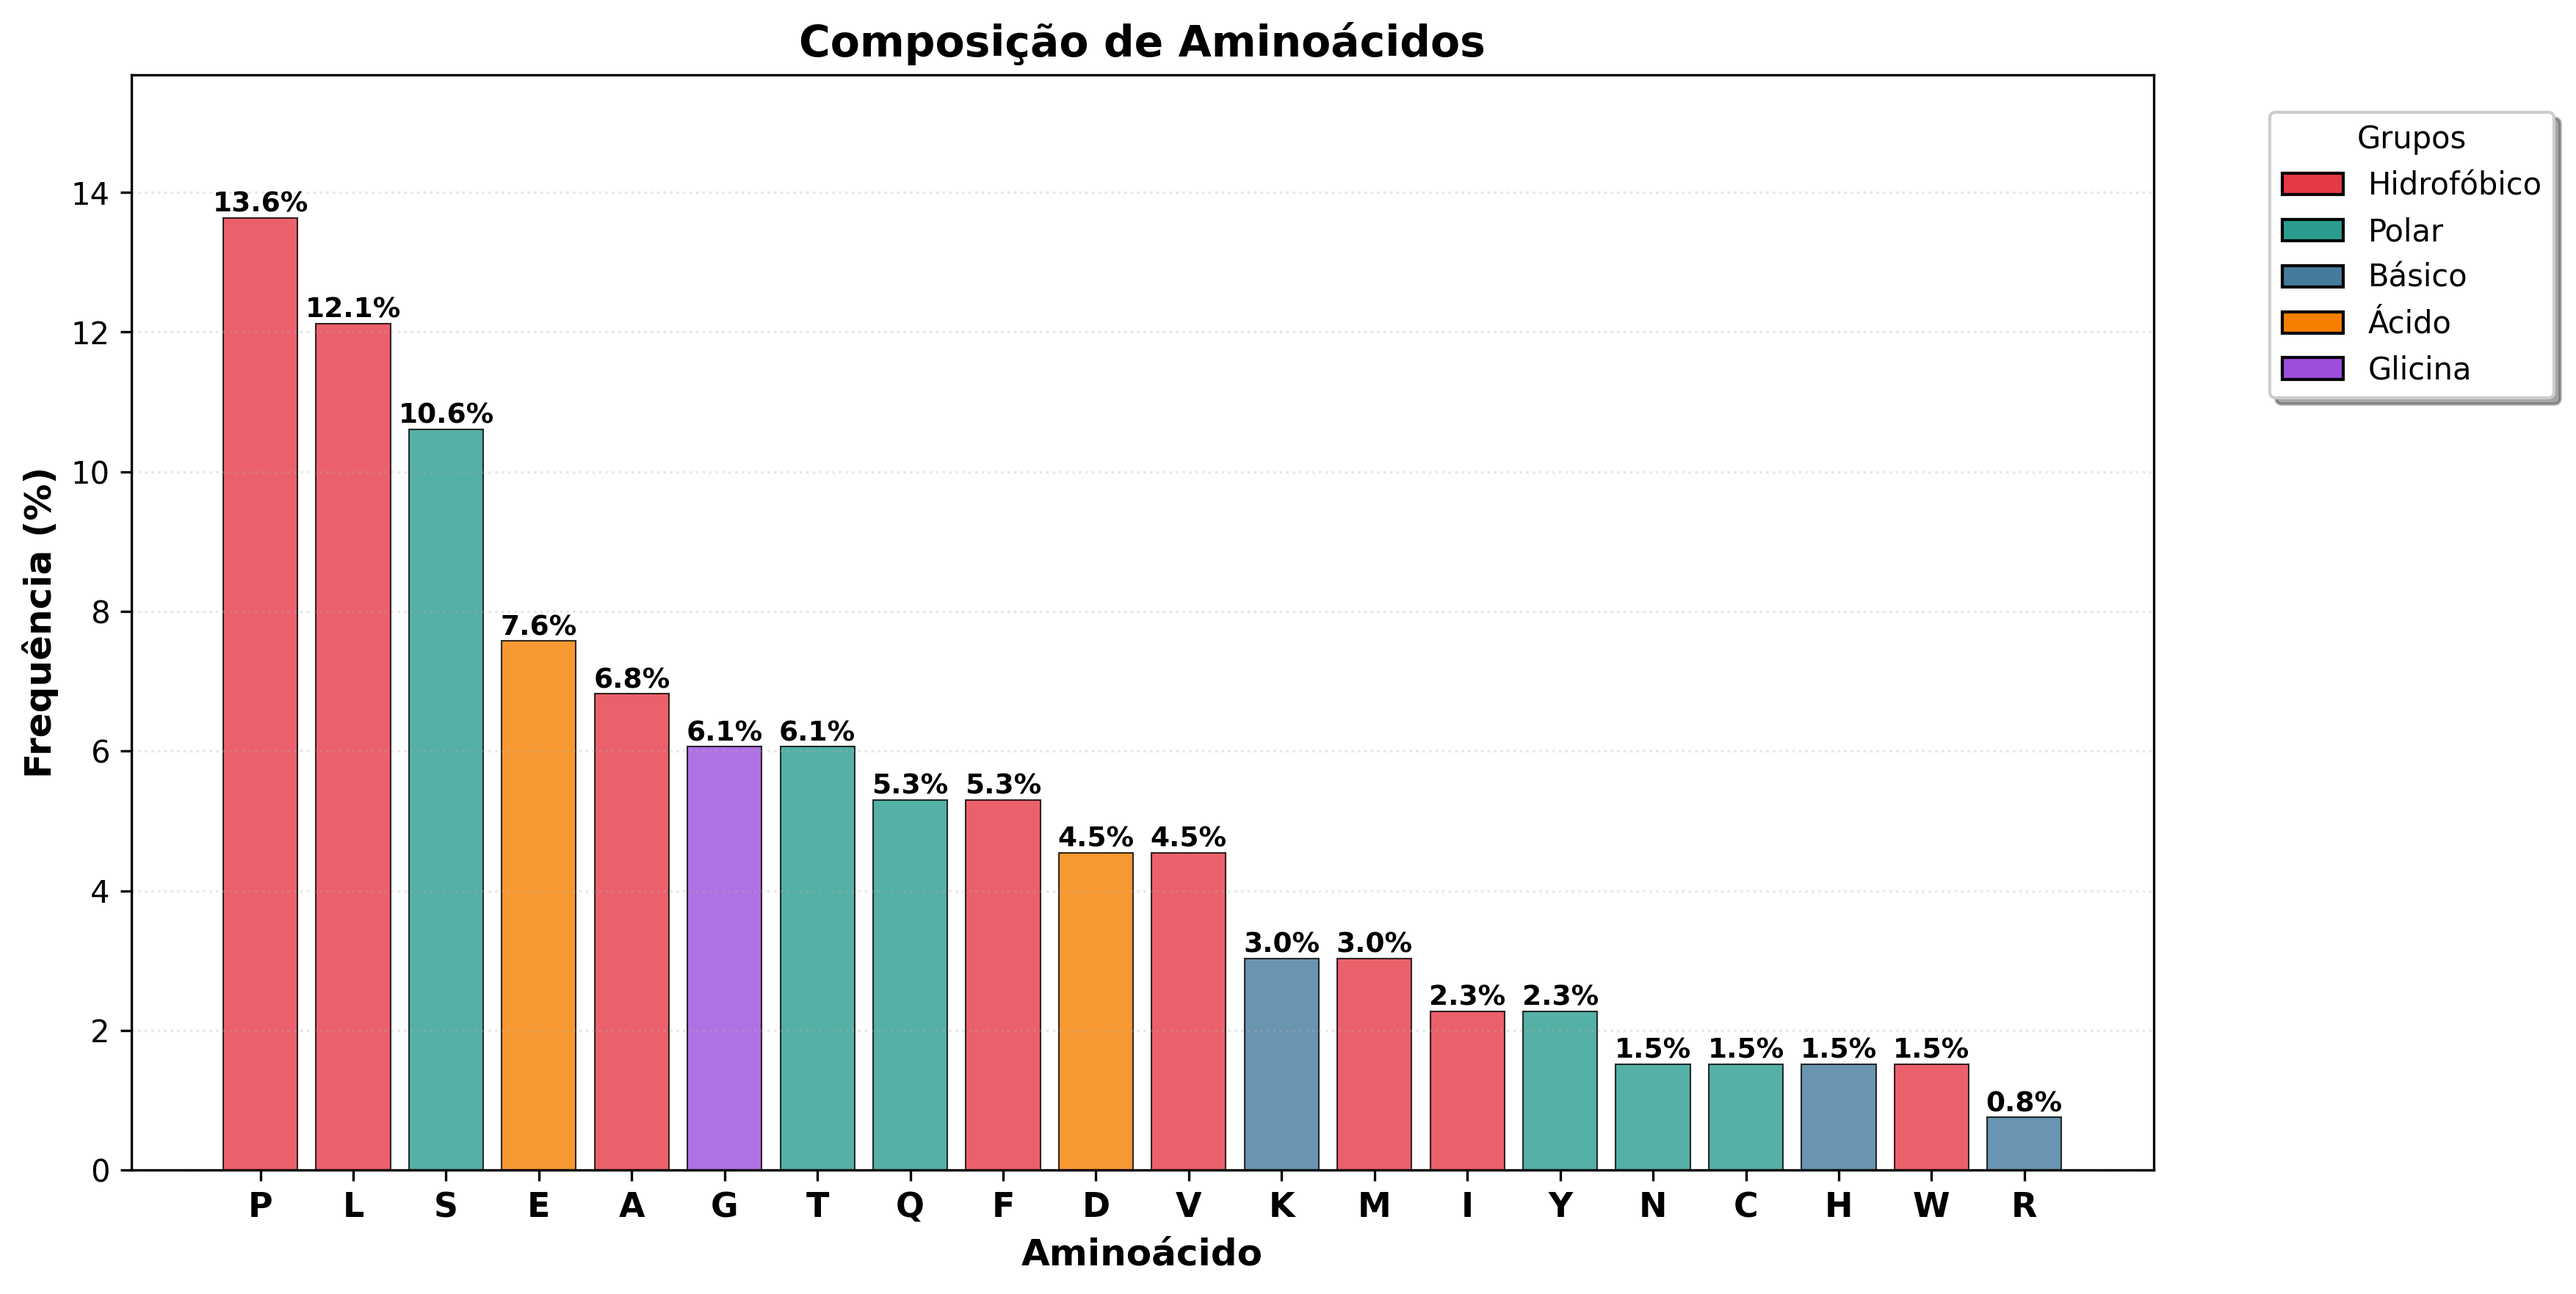
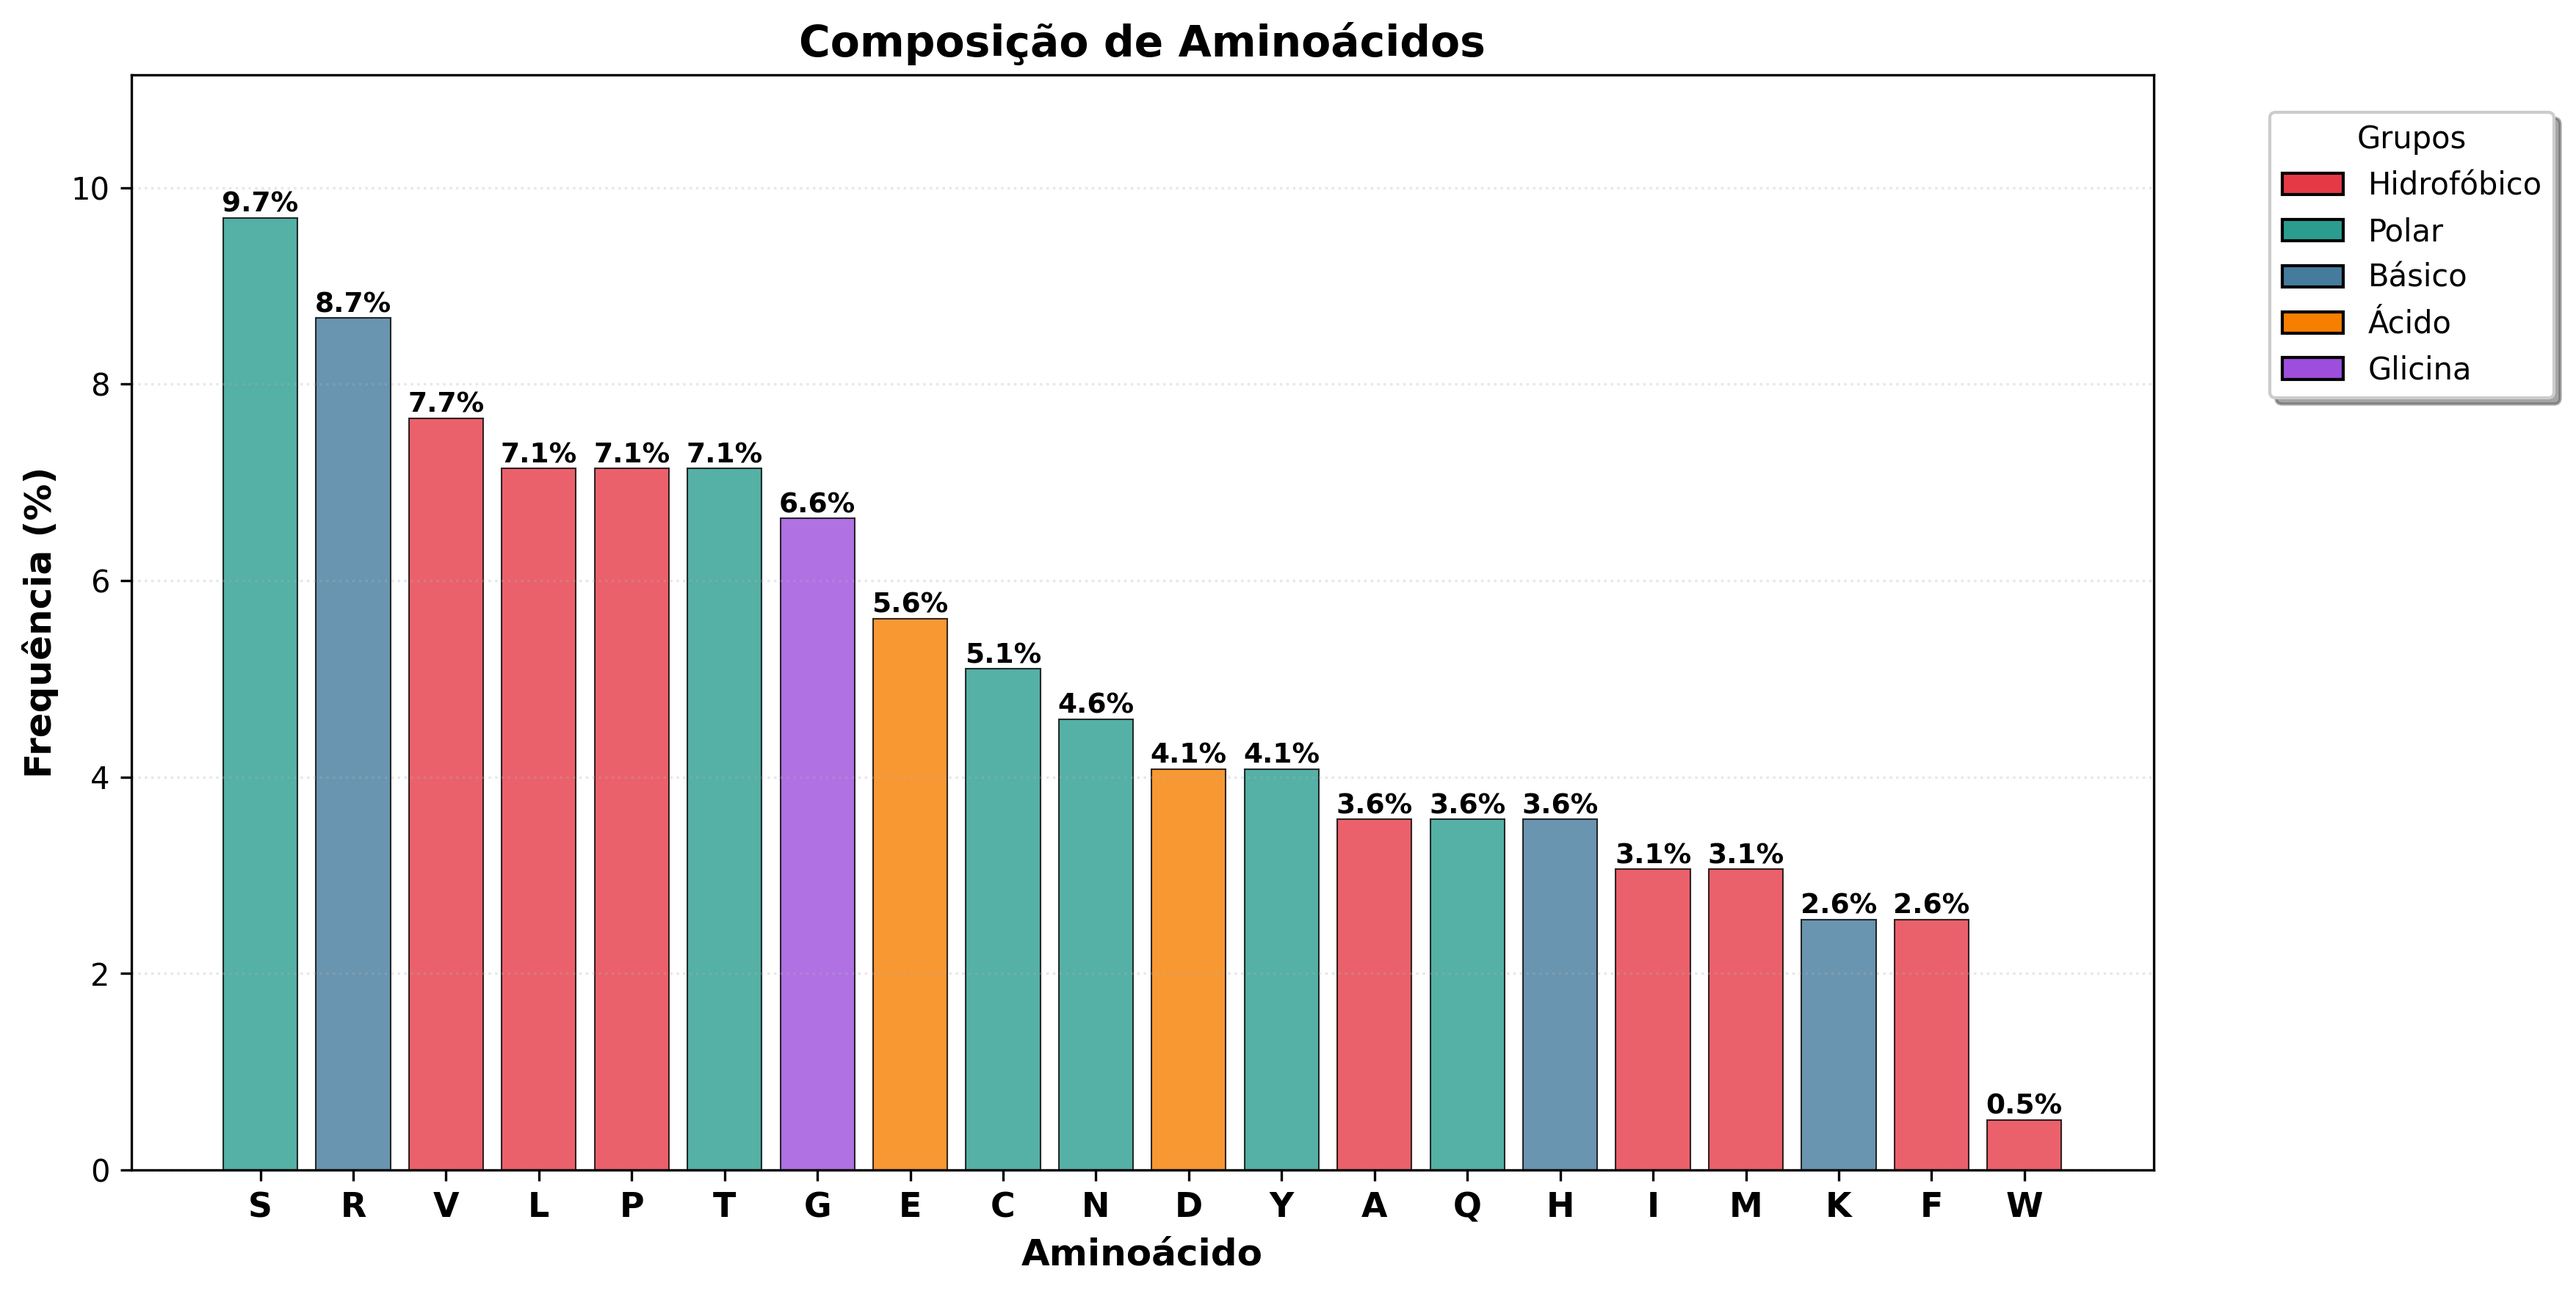
Update protein 1TUP properties in CSV and README for accuracy

Changed region(s): [[0.0621, 0.1248, 0.8079, 0.9359], [0.0311, 0.1248, 0.0621, 0.156]]

diff --git a/demoday-biohub/README.md b/demoday-biohub/README.md
@@ -170,17 +170,17 @@ Resultado das análises com o BioHub para a proteína 1TUP (CSV):
 
 ````bash
 Propriedade,Valor
-Comprimento,132
-Peso Molecular (Da),14308.08
-Ponto Isoelétrico (pI),3.93
-GRAVY (Hidropaticidade),-0.156
-Índice Alifático,76.14
-Índice de Instabilidade,-112.73 (Estável)
+Comprimento,196
+Peso Molecular (Da),22003.86
+Ponto Isoelétrico (pI),8.03
+GRAVY (Hidropaticidade),-0.503
+Índice Alifático,65.56
+Índice de Instabilidade,-105.87 (Estável)
 "Meia-Vida (Mamíferos, in vitro)",>10 horas
-Total de Resíduos Ácidos (Asp+Glu),16
-Total de Resíduos Básicos (Arg+Lys+His),7
-Total de Resíduos Polares,36
-Total de Resíduos Apolares,73
+Total de Resíduos Ácidos (Asp+Glu),19
+Total de Resíduos Básicos (Arg+Lys+His),29
+Total de Resíduos Polares,67
+Total de Resíduos Apolares,81
 ````
 
 #### Gráfico de Composição de Aminoácidos
@@ -271,6 +271,12 @@ This classifies the protein as unstable.
 Aliphatic index: 65.56
 Grand average of hydropathicity (GRAVY):-0.503
 ````
+
+---
+
+# BioHub vs. ProtParam (ExPASy)
+
+
 
 ---
 
